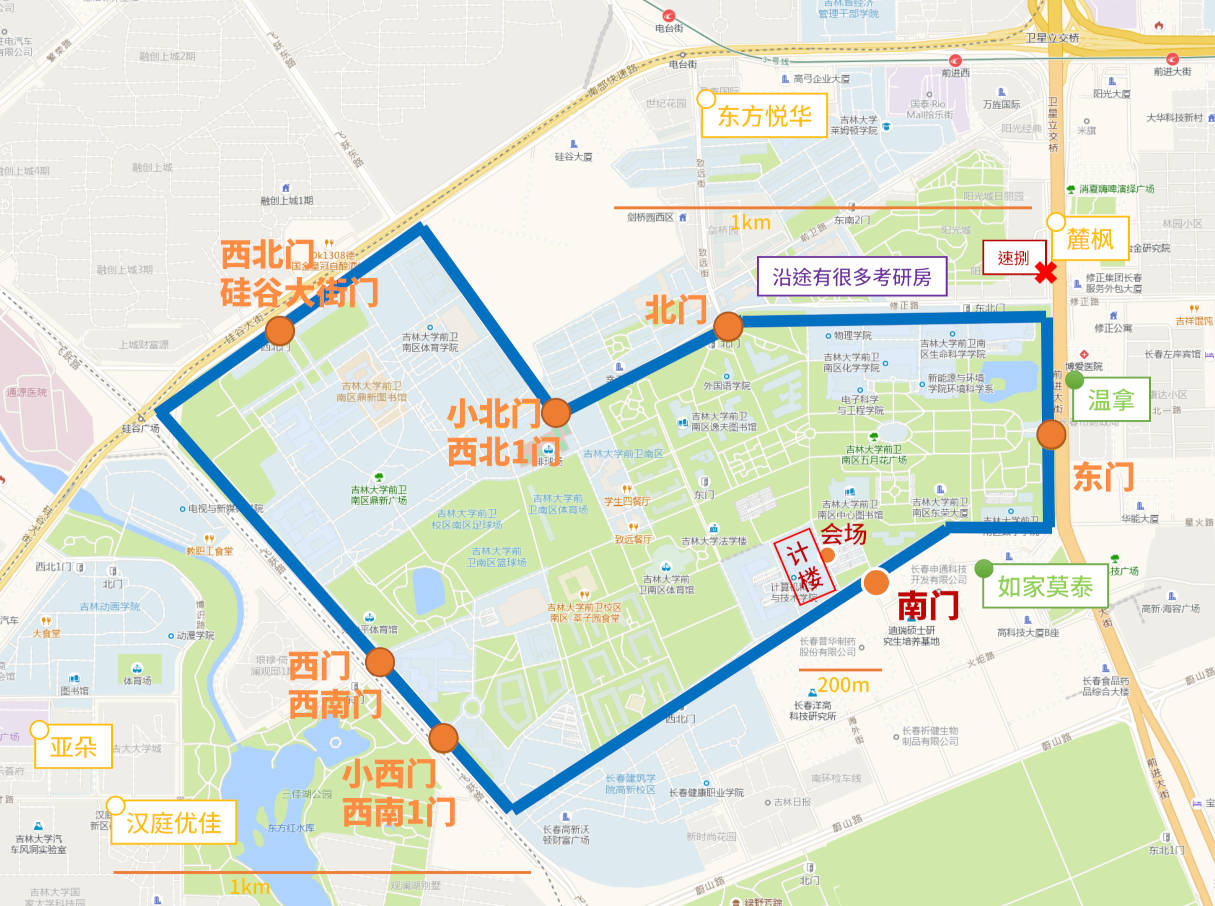
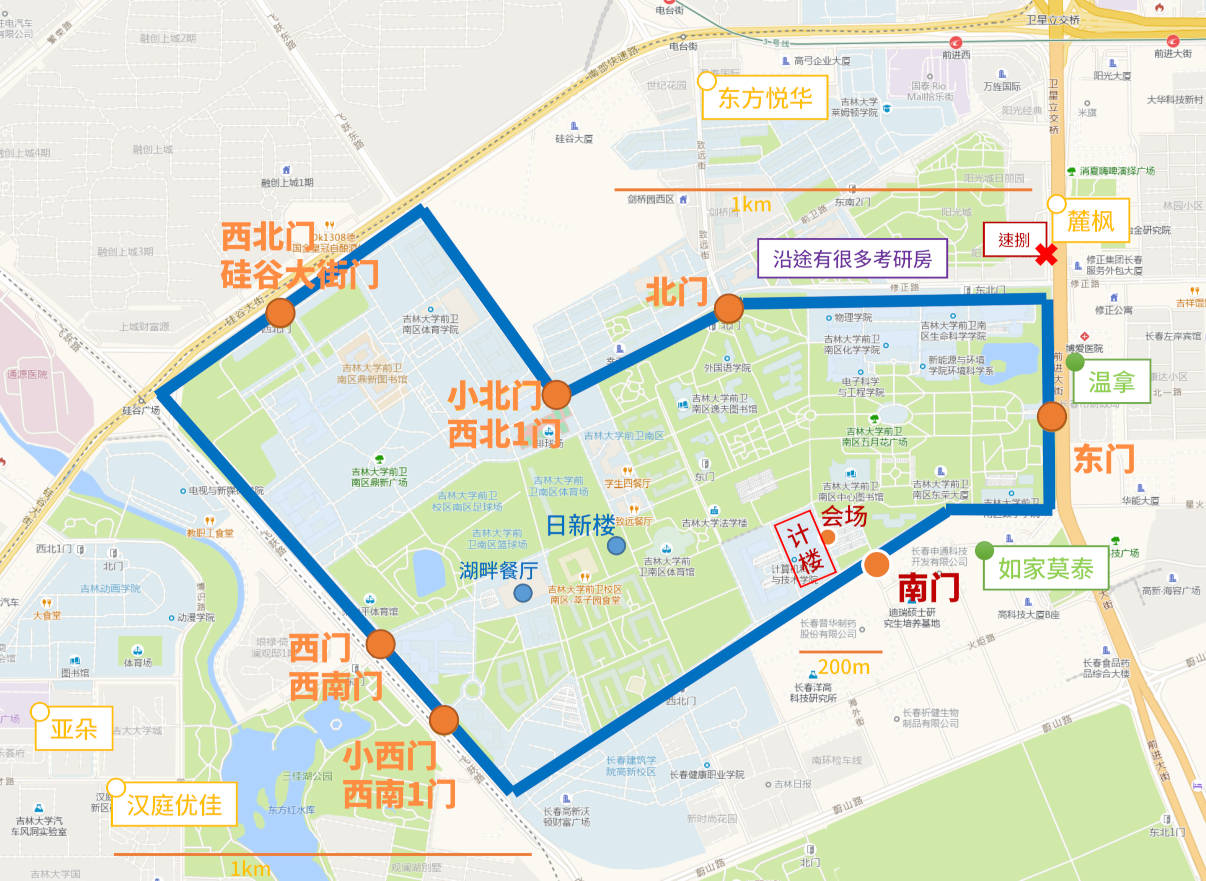
fix(aoscc/2024-guide): update campus map; add takeaway delivery info

diff --git a/content/community/aoscc/2024-guide.zh.md b/content/community/aoscc/2024-guide.zh.md
@@ -151,9 +151,15 @@ G13/G222 路**末车 22:15**，G193/G195/Z315 **末车约 20:00** ，**仅供参
 
 # 餐饮
 
+## 外卖
+
+校园内设有专用外卖平台「校GO校园」小程序，主要涵盖校内日新楼商家等，可送至计算机楼门口。
+
+使用美团/饿了么等外卖平台，有的校内商家也可送货到楼，校外商家请将地址设定在学校南门，并及时前往取餐。
+
 ## 校内日新楼
 
-日新楼为前卫南区校内一座独立综合商业楼，距离会场约 500m 。
+日新楼为前卫南区校内一座独立综合商业楼，距离会场约 500m ，位置见[「住宿」一节地图](#zhu-su)。
 
 一层为门市、百货、简餐、饮品混合，以及汉堡王，二层为美食城（人均 20 内），三层为主题餐厅（人均 30-80），四层以上还有电影院、网吧、健身房、游泳馆等。
 
@@ -161,7 +167,7 @@ G13/G222 路**末车 22:15**，G193/G195/Z315 **末车约 20:00** ，**仅供参
 
 ## 校内食堂
 
-由于暑假假期，南区只有「湖畔餐厅」二楼开餐，距离会场约 800m ，人均消费 20 左右。
+由于暑假假期，南区只有「湖畔餐厅」二楼开餐，距离会场约 800m ，人均消费 20 左右，位置见[「住宿」一节地图](#zhu-su)。
 
 该食堂为「智慧餐厅」，需要绑定 RFID 餐盘，将餐盘置于对应菜品感应平台后自助打菜，按菜品重量计费。
 
@@ -169,7 +175,7 @@ G13/G222 路**末车 22:15**，G193/G195/Z315 **末车约 20:00** ，**仅供参
 
 开餐时间：早餐 7:00—8:30 ，午餐 11:00—12:30 ，晚餐 16:30—18:00 。
 
-## 学校外
+## 学校周边及市区
 
 计算机楼、南门外的星河街一带基本没有任何餐饮业，如需在学校周边寻找餐馆，可以在北门外的致远街、修正路一带走一走。
 
